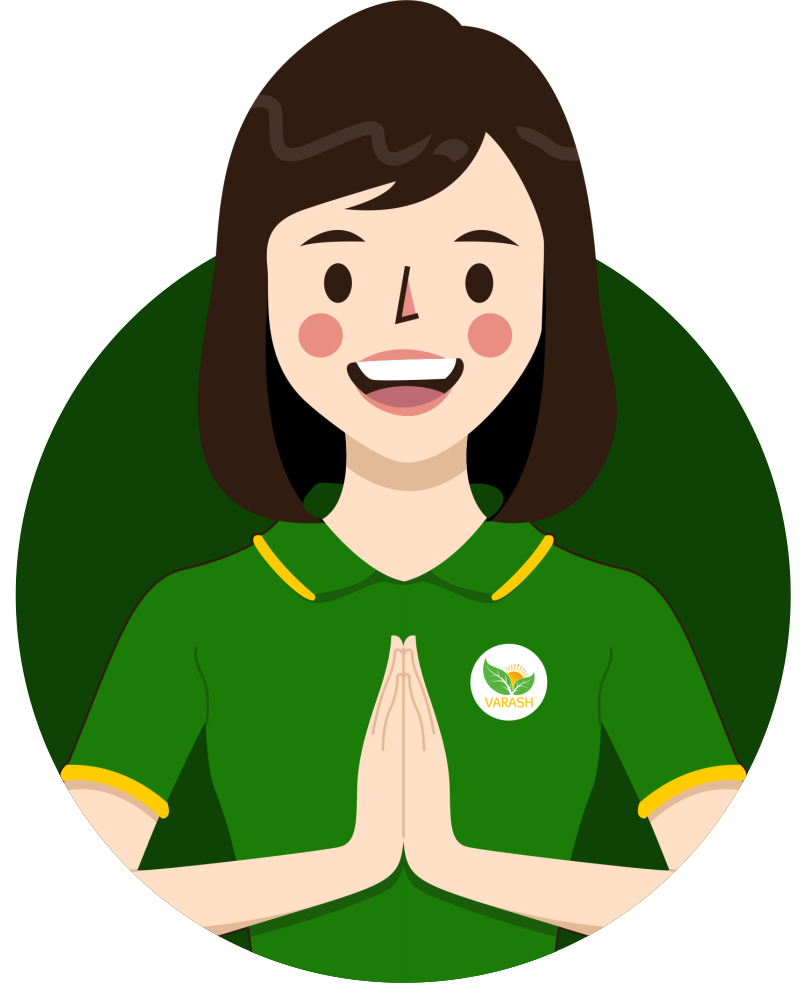
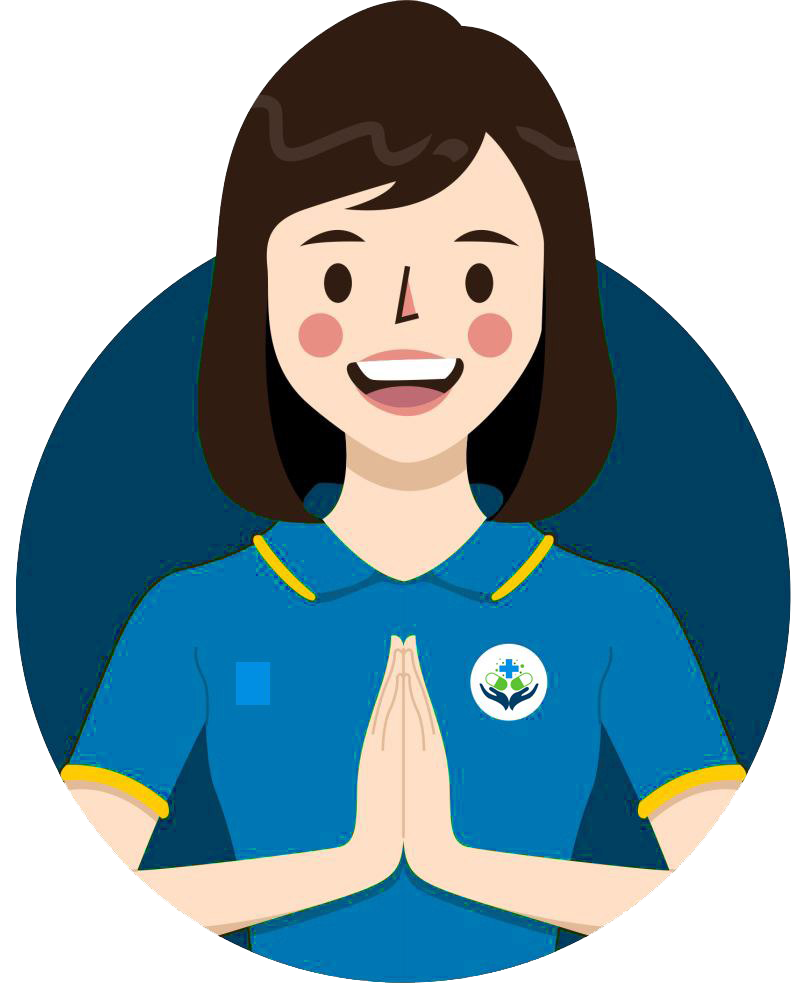
fix

diff --git a/lib/app/modules/app_intro/views/app_intro_view.dart b/lib/app/modules/app_intro/views/app_intro_view.dart
@@ -24,19 +24,19 @@ class AppIntroView extends GetView<AppIntroController> {
       'intro1.png',
       'intro2.png',
       'intro3.png',
-      'intro4.png'
+      'intro1.png'
     ];
     List<String> labels = [
       'Selamat Datang di SIMANIS!',
-      'Promo Belanja!',
-      'Semua Bisa Menjadi Nyata!',
+      'Edukasi!',
+      'Hidup Sehat!',
       'Tunggu Apalagi?'
     ];
     List<String> descriptions = [
       'Aplikasi yang membantu anda dalam menangani diabetes',
       'Rawat Kaki anda agar mengatasi kanker kaki',
       'Lakukan olahraga teratur',
-      'Cek nutrisi yang dibutuhkan',
+      'Cek screening kaki anda untuk mengetahui kesehatan DM',
     ];
 
     Widget bubble(double size, [Color? color]) => Container(
@@ -83,7 +83,7 @@ class AppIntroView extends GetView<AppIntroController> {
       Positioned(
         left: -70,
         bottom: -50,
-        child: bubble(300, Colors.green.withOpacity(.4))
+        child: bubble(300, Colors.blue.withOpacity(.4))
             .animate(onPlay: (o) => o.repeat(reverse: true))
             .moveY(duration: 5.s, begin: -55, end: 100)
             .moveX(duration: 5.s, begin: -55, end: 100)
@@ -123,9 +123,9 @@ class AppIntroView extends GetView<AppIntroController> {
                   begin: Alignment.topCenter,
                   end: Alignment.bottomCenter,
                   colors: [
-                    Colors.green.shade700,
-                    Colors.green.shade400,
-                    Colors.green.shade200,
+                    Colors.blue.shade700,
+                    Colors.blue.shade400,
+                    Colors.blue.shade200,
                   ],
                 )),
               ),
@@ -202,7 +202,7 @@ class AppIntroView extends GetView<AppIntroController> {
         LineProgressIndicator(
           repeat: true,
           duration: 10.s,
-          progressColor: Colors.green,
+          progressColor: Colors.blue,
           onComplete: () {
             controller.carouselController.nextPage();
           },

diff --git a/lib/app/modules/blood_sugar/views/gds_view.dart b/lib/app/modules/blood_sugar/views/gds_view.dart
@@ -145,7 +145,7 @@ class StatusGulaDarahGDSWidget extends StatelessWidget {
                 onTap: () => Get.toNamed(Routes.WEBVIEW,
                     arguments: Webview(
                         title: 'Tutorial Cara Perawatan Hiperglikemia',
-                        url: 'https://simanis.codingaja.my.id/tutorial-cara-perawatan-hiperglikemia')),
+                        url: 'https://simanis.codingaja.com/tutorial-cara-perawatan-hiperglikemia')),
               ),
             ],
           ).lz.clip(all: LazyUi.radius),
@@ -215,7 +215,7 @@ class StatusGulaDarahGDSWidget extends StatelessWidget {
                 onTap: () => Get.toNamed(Routes.WEBVIEW,
                     arguments: Webview(
                         title: 'Tutorial Cara Perawatan Hipoglekimia',
-                        url: 'https://simanis.codingaja.my.id/tutorial-cara-perawatan-hipoglekimia')),
+                        url: 'https://simanis.codingaja.com/tutorial-cara-perawatan-hipoglekimia')),
               ),
             ],
           ).lz.clip(all: LazyUi.radius),

diff --git a/lib/app/modules/blood_sugar/views/gdp_view.dart b/lib/app/modules/blood_sugar/views/gdp_view.dart
@@ -144,7 +144,7 @@ class StatusGulaDarahWidget extends StatelessWidget {
                 onTap: () => Get.toNamed(Routes.WEBVIEW,
                     arguments: Webview(
                         title: 'Tutorial Cara Perawatan Hiperglikemia',
-                        url: 'https://simanis.codingaja.my.id/tutorial-cara-perawatan-hiperglikemia')),
+                        url: 'https://simanis.codingaja.com/tutorial-cara-perawatan-hiperglikemia')),
               ),
             ],
           ).lz.clip(all: LazyUi.radius),
@@ -214,7 +214,7 @@ class StatusGulaDarahWidget extends StatelessWidget {
                 onTap: () => Get.toNamed(Routes.WEBVIEW,
                     arguments: Webview(
                         title: 'Tutorial Cara Perawatan Hipoglekimia',
-                        url: 'https://simanis.codingaja.my.id/tutorial-cara-perawatan-hipoglekimia')),
+                        url: 'https://simanis.codingaja.com/tutorial-cara-perawatan-hipoglekimia')),
               ),
             ],
           ).lz.clip(all: LazyUi.radius),

diff --git a/lib/app/data/services/api/education.dart b/lib/app/data/services/api/education.dart
@@ -2,9 +2,9 @@ part of 'api.dart';
 
 class EducationApi extends Fetch {
   Future<ResHandler> getEduaction() async =>
-      await get('https://simanis.codingaja.my.id/api/education/edukasi');
+      await get('https://simanis.codingaja.com/api/education/edukasi');
         Future<ResHandler> getPhysicalTraining() async =>
-      await get('https://simanis.codingaja.my.id/api/education/latihan-fisik');
+      await get('https://simanis.codingaja.com/api/education/latihan-fisik');
   Future<ResHandler> getFootCare() async =>
-      await get('https://simanis.codingaja.my.id/api/education/perawatan-kaki');
+      await get('https://simanis.codingaja.com/api/education/perawatan-kaki');
 }

diff --git a/lib/app/data/repository/api/api.dart b/lib/app/data/repository/api/api.dart
@@ -32,8 +32,8 @@ BaseOptions dioOptions(String baseUrl, String token) => BaseOptions(
 
 final Dio dio = Dio(dioOptions(AppConfig.baseUrl, ''));
 
-String localBaseUrl = 'https://simanis.codingaja.my.id/api',
-    serverApi = 'https://simanis.codingaja.my.id/api';
+String localBaseUrl = 'https://simanis.codingaja.com/api',
+    serverApi = 'https://simanis.codingaja.com/api';
 
 /*
   # NOTE 
@@ -42,7 +42,7 @@ String localBaseUrl = 'https://simanis.codingaja.my.id/api',
   Untuk native sendiri permission akses datanya dengan param idmember,
   sedangkan laravel dengan token
 
- https://simanis.codingaja.my.id/api/v1/ -> 
+ https://simanis.codingaja.com/api/v1/ -> 
 */
 
 class UtilRh {

diff --git a/lib/app/modules/blood_sugar/views/blood_sugar_view.dart b/lib/app/modules/blood_sugar/views/blood_sugar_view.dart
@@ -32,7 +32,7 @@ class BloodSugarView extends GetView<BloodSugarController> {
                 onTap: () => Get.toNamed(Routes.WEBVIEW,
                     arguments: Webview(
                         title: 'Cara Melakukan Cek Gula Darah',
-                        url: 'https://simanis.codingaja.my.id/tutorial-check-gula-darah')),
+                        url: 'https://simanis.codingaja.com/tutorial-check-gula-darah')),
               ),
               CardListBloodSugar(
                 title: "Check Gula Darah Puasa (GDP)",

diff --git a/lib/app/core/app_config.dart b/lib/app/core/app_config.dart
@@ -19,14 +19,14 @@ class AppConfig {
   | Server Base URL
   | */
 
-  static const String baseUrl = 'https://simanis.codingaja.my.id/api/';
+  static const String baseUrl = 'https://simanis.codingaja.com/api/';
 
   /* ------------------------------------------------------------
   | Version
   | */
 
   static const String version = '1.0.0';
-  static const String buildDate = '26072024.1'; 
+  static const String buildDate = '10082024.1'; 
 
 
   /* ------------------------------------------------------------

diff --git a/lib/app/modules/initial/controllers/initial_controller.dart b/lib/app/modules/initial/controllers/initial_controller.dart
@@ -18,7 +18,7 @@ RxBool isLogged = false.obs;
     String? token = storage.read('token');
     logg(token);
     f.Fetchly.init(
-      baseUrl: 'https://simanis.codingaja.my.id/api/',
+      baseUrl: 'https://simanis.codingaja.com/api/',
       onRequest: RequestHandler.onRequest,
       config: FetchlyConfig(printLimit: 5000));
     if (token != null) {

diff --git a/lib/main.dart b/lib/main.dart
@@ -25,7 +25,7 @@ void main() async {
   String? token = storage.read('token');
 
   f.Fetchly.init(
-      baseUrl: 'https://simanis.codingaja.my.id/api/',
+      baseUrl: 'https://simanis.codingaja.com/api/',
       onRequest: RequestHandler.onRequest,
       config: FetchlyConfig(printLimit: 5000));
 
